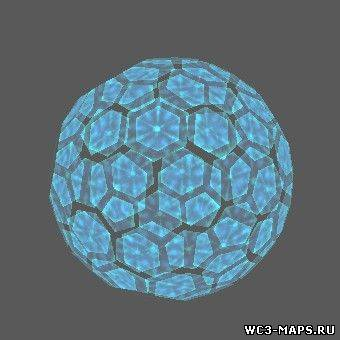
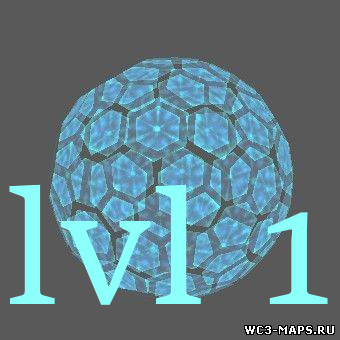
обновление эфектов а не наложение одинаковых друг на друга

diff --git a/src/static/field/js/Interface/UnitSubMenu.js b/src/static/field/js/Interface/UnitSubMenu.js
@@ -147,7 +147,7 @@ function EffectsPanel(unitSubMenu, unit) {
 
             var cellInventory = document.createElement("td");
             cellInventory.className = "cell Effect";
-            cellInventory.style.backgroundImage = "url(/assets/effects/" + unit.info.effect[j].name + ".png)";
+            cellInventory.style.backgroundImage = "url(/assets/effects/" + unit.info.effect[j].name + "_" + unit.info.effect[j].level + ".png)";
             cellInventory.effect = unit.info.effect[j];
 
             cellInventory.onmouseover = function () {

diff --git a/src/static/field/js/Equip/TipEffect.js b/src/static/field/js/Equip/TipEffect.js
@@ -10,7 +10,7 @@ function TipEffectOn(effect) {
     headTR.appendChild(headTH);
 
     var iconTD = document.createElement("td");
-    iconTD.style.backgroundImage = "url(/assets/effects/" + effect.name + ".png)";
+    iconTD.style.backgroundImage = "url(/assets/effects/" + effect.name + "_" + effect.level + ".png)";
     iconTD.style.width = "20px";
     iconTD.style.height = "20px";
     iconTD.style.borderRadius = "5px";

diff --git a/src/mechanics/db/getEffect.go b/src/mechanics/db/getEffect.go
@@ -7,9 +7,40 @@ import (
 	"../equip"
 )
 
+func GetNewLvlEffect(oldEffect *effect.Effect, up int) *effect.Effect {
+	newLevel := oldEffect.Level + up
+
+	rows, err := db.Query("SELECT * FROM effects_type WHERE level=$1 AND name=$2 AND type=$3 AND parameter=$4;",
+		newLevel, oldEffect.Name, oldEffect.Type, oldEffect.Parameter)
+
+	if err != nil {
+		println("get new lvl effect")
+		log.Fatal(err)
+	}
+	defer rows.Close()
+
+	for rows.Next() {
+		var newEffect effect.Effect
+
+		err := rows.Scan(&newEffect.TypeID, &newEffect.Name, &newEffect.Level, &newEffect.Type,
+			&newEffect.StepsTime, &newEffect.Parameter, &newEffect.Quantity, &newEffect.Percentages, &newEffect.Forever)
+		if err != nil {
+			println("get new lvl effect")
+			log.Fatal(err)
+		}
+
+		newEffect.StepsTime = oldEffect.StepsTime
+		newEffect.ID = oldEffect.ID
+
+		return &newEffect
+	}
+
+	return nil
+}
+
 func GetUnitEffects(unit *unit.Unit) {
 
-	rows, err := db.Query("SELECT age.id, et.id, et.name, et.level, et.type, age.left_steps, et.parameter, et.quantity, et.percentages "+
+	rows, err := db.Query("SELECT age.id, et.id, et.name, et.level, et.type, age.left_steps, et.parameter, et.quantity, et.percentages, et.forever "+
 		"FROM action_game_unit_effects age, effects_type et "+
 		"WHERE age.id_unit=$1 AND age.id_effect=et.id;", unit.Id)
 	if err != nil {
@@ -22,8 +53,9 @@ func GetUnitEffects(unit *unit.Unit) {
 		var unitEffect effect.Effect
 
 		err := rows.Scan(&unitEffect.ID, &unitEffect.TypeID, &unitEffect.Name, &unitEffect.Level, &unitEffect.Type,
-			&unitEffect.StepsTime, &unitEffect.Parameter, &unitEffect.Quantity, &unitEffect.Percentages)
+			&unitEffect.StepsTime, &unitEffect.Parameter, &unitEffect.Quantity, &unitEffect.Percentages, &unitEffect.Forever)
 		if err != nil {
+			println("get unit effects")
 			log.Fatal(err)
 		}
 
@@ -52,6 +84,7 @@ func GetEffectsEquip(equip *equip.Equip) {
 		err := rows.Scan(&equipEffect.TypeID, &equipEffect.Name, &equipEffect.Level,&equipEffect.Type, &equipEffect.StepsTime,
 			&equipEffect.Parameter, &equipEffect.Quantity, &equipEffect.Percentages, &equipEffect.Forever)
 		if err != nil {
+			println("get user equip effects")
 			log.Fatal(err)
 		}
 

diff --git a/src/mechanics/db/updateEffects.go b/src/mechanics/db/updateEffects.go
@@ -2,26 +2,29 @@ package db
 
 import (
 	"../unit"
+	"log"
 )
 
 func UpdateUnitEffects(unit *unit.Unit) error {
 	for _, unitEffect := range unit.Effects {
 		if unitEffect.StepsTime == 0 {
 
-			_, err := db.Exec("DELETE FROM action_game_effects WHERE id=$1", unitEffect.ID)
-
+			_, err := db.Exec("DELETE FROM action_game_unit_effects WHERE id=$1", unitEffect.ID)
+			// todo
 			if err != nil {
 				println("Error delete unit effect")
+				log.Fatal(err)
 				return err
 			}
 
 		} else {
 			if unitEffect.ID != 0 {
 
-				_, err := db.Exec("UPDATE action_game_effects SET left_steps=$1", unitEffect.StepsTime)
+				_, err := db.Exec("UPDATE action_game_unit_effects SET left_steps=$1, id_effect=$3 WHERE id=$2", unitEffect.StepsTime, unitEffect.ID, unitEffect.TypeID)
 
 				if err != nil {
 					println("Error update unit effect")
+					log.Fatal(err)
 					return err
 				}
 
@@ -32,6 +35,7 @@ func UpdateUnitEffects(unit *unit.Unit) error {
 
 				if err != nil {
 					println("Error add new unit effect")
+					log.Fatal(err)
 					return err
 				}
 

diff --git a/src/mechanics/addNewEffect.go b/src/mechanics/addNewEffect.go
@@ -1,0 +1,40 @@
+package mechanics
+
+import (
+	"./unit"
+	"./effect"
+	"./db"
+)
+
+const maxLvl = 2
+
+func AddNewEffect(gameUnit *unit.Unit, newEffect *effect.Effect) {
+
+	addAnimate := true
+
+	for i, unitEffect := range gameUnit.Effects {
+		if unitEffect.Type != "unit_always_animate" && unitEffect.Type != "animate" {
+			if unitEffect.Name == newEffect.Name {
+				if unitEffect.Level+newEffect.Level >= maxLvl {
+					newLvl := maxLvl - unitEffect.Level
+					gameUnit.Effects[i] = db.GetNewLvlEffect(unitEffect, newLvl)
+				} else {
+					gameUnit.Effects[i] = db.GetNewLvlEffect(unitEffect, newEffect.Level)
+				}
+				return
+			}
+		} else {
+			if unitEffect.Name == newEffect.Name {
+				addAnimate = false
+			}
+		}
+	}
+
+	if newEffect.Type == "unit_always_animate" || newEffect.Type == "animate" {
+		if addAnimate {
+			gameUnit.Effects = append(gameUnit.Effects, newEffect)
+		}
+	} else {
+		gameUnit.Effects = append(gameUnit.Effects, newEffect)
+	}
+}

diff --git a/src/mechanics/useEquip/putEffectToUnit.go b/src/mechanics/useEquip/putEffectToUnit.go
@@ -5,6 +5,7 @@ import (
 	"../equip"
 	"../db"
 	"../player"
+	"../../mechanics"
 )
 
 func ToUnit(gameUnit *unit.Unit, useEquip *equip.Equip, client *player.Player) {
@@ -12,7 +13,7 @@ func ToUnit(gameUnit *unit.Unit, useEquip *equip.Equip, client *player.Player) {
 	useEquip.Used = false //TODO делаем эквип использованым но сейчас нет для тестов надо исправитьв будущем
 
 	for _, effect := range useEquip.Effects { // переносим все эфекты из него выбраному юниту
-		gameUnit.Effects = append(gameUnit.Effects, effect)
+		mechanics.AddNewEffect(gameUnit, effect)
 	}
 
 	db.UpdateUnit(gameUnit)
